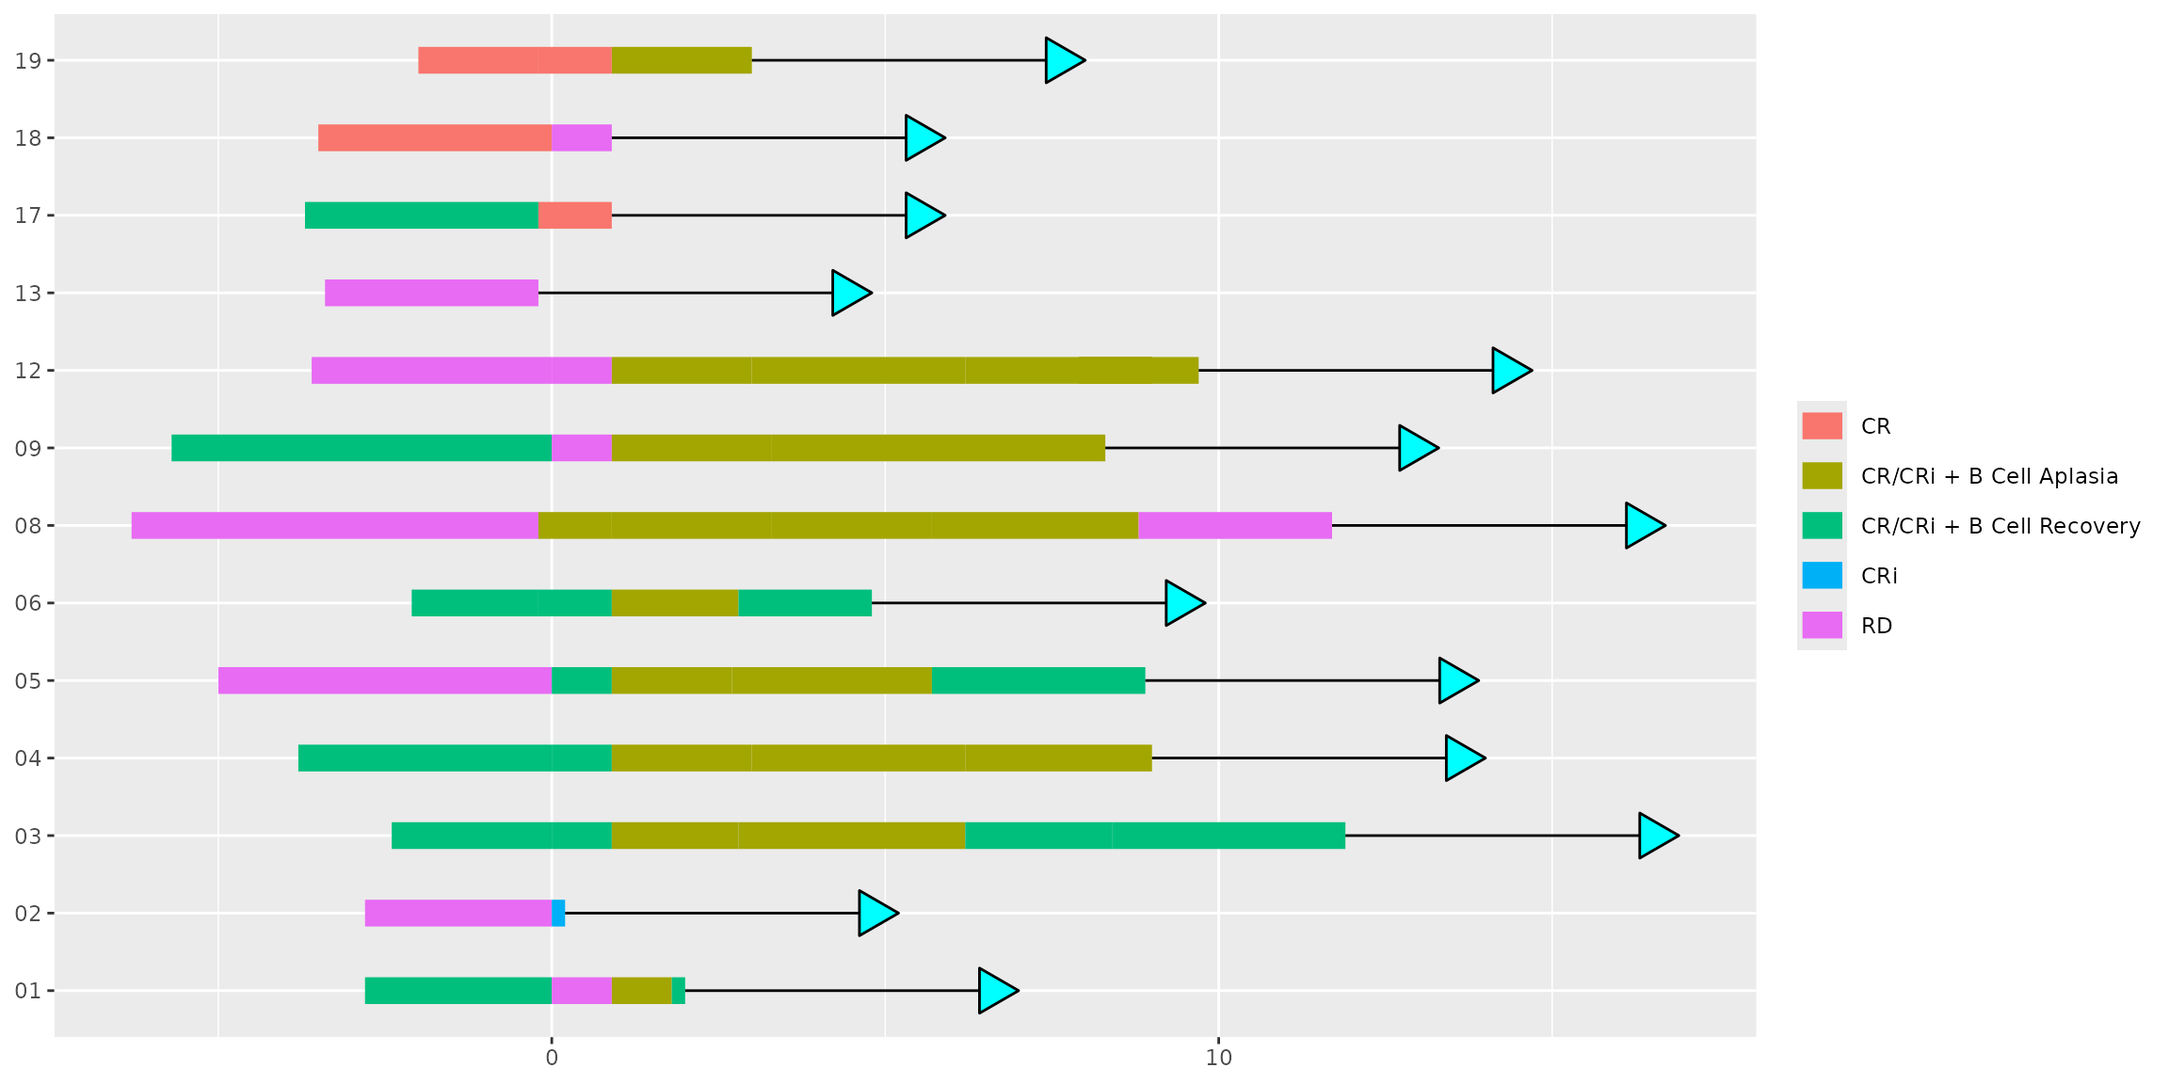
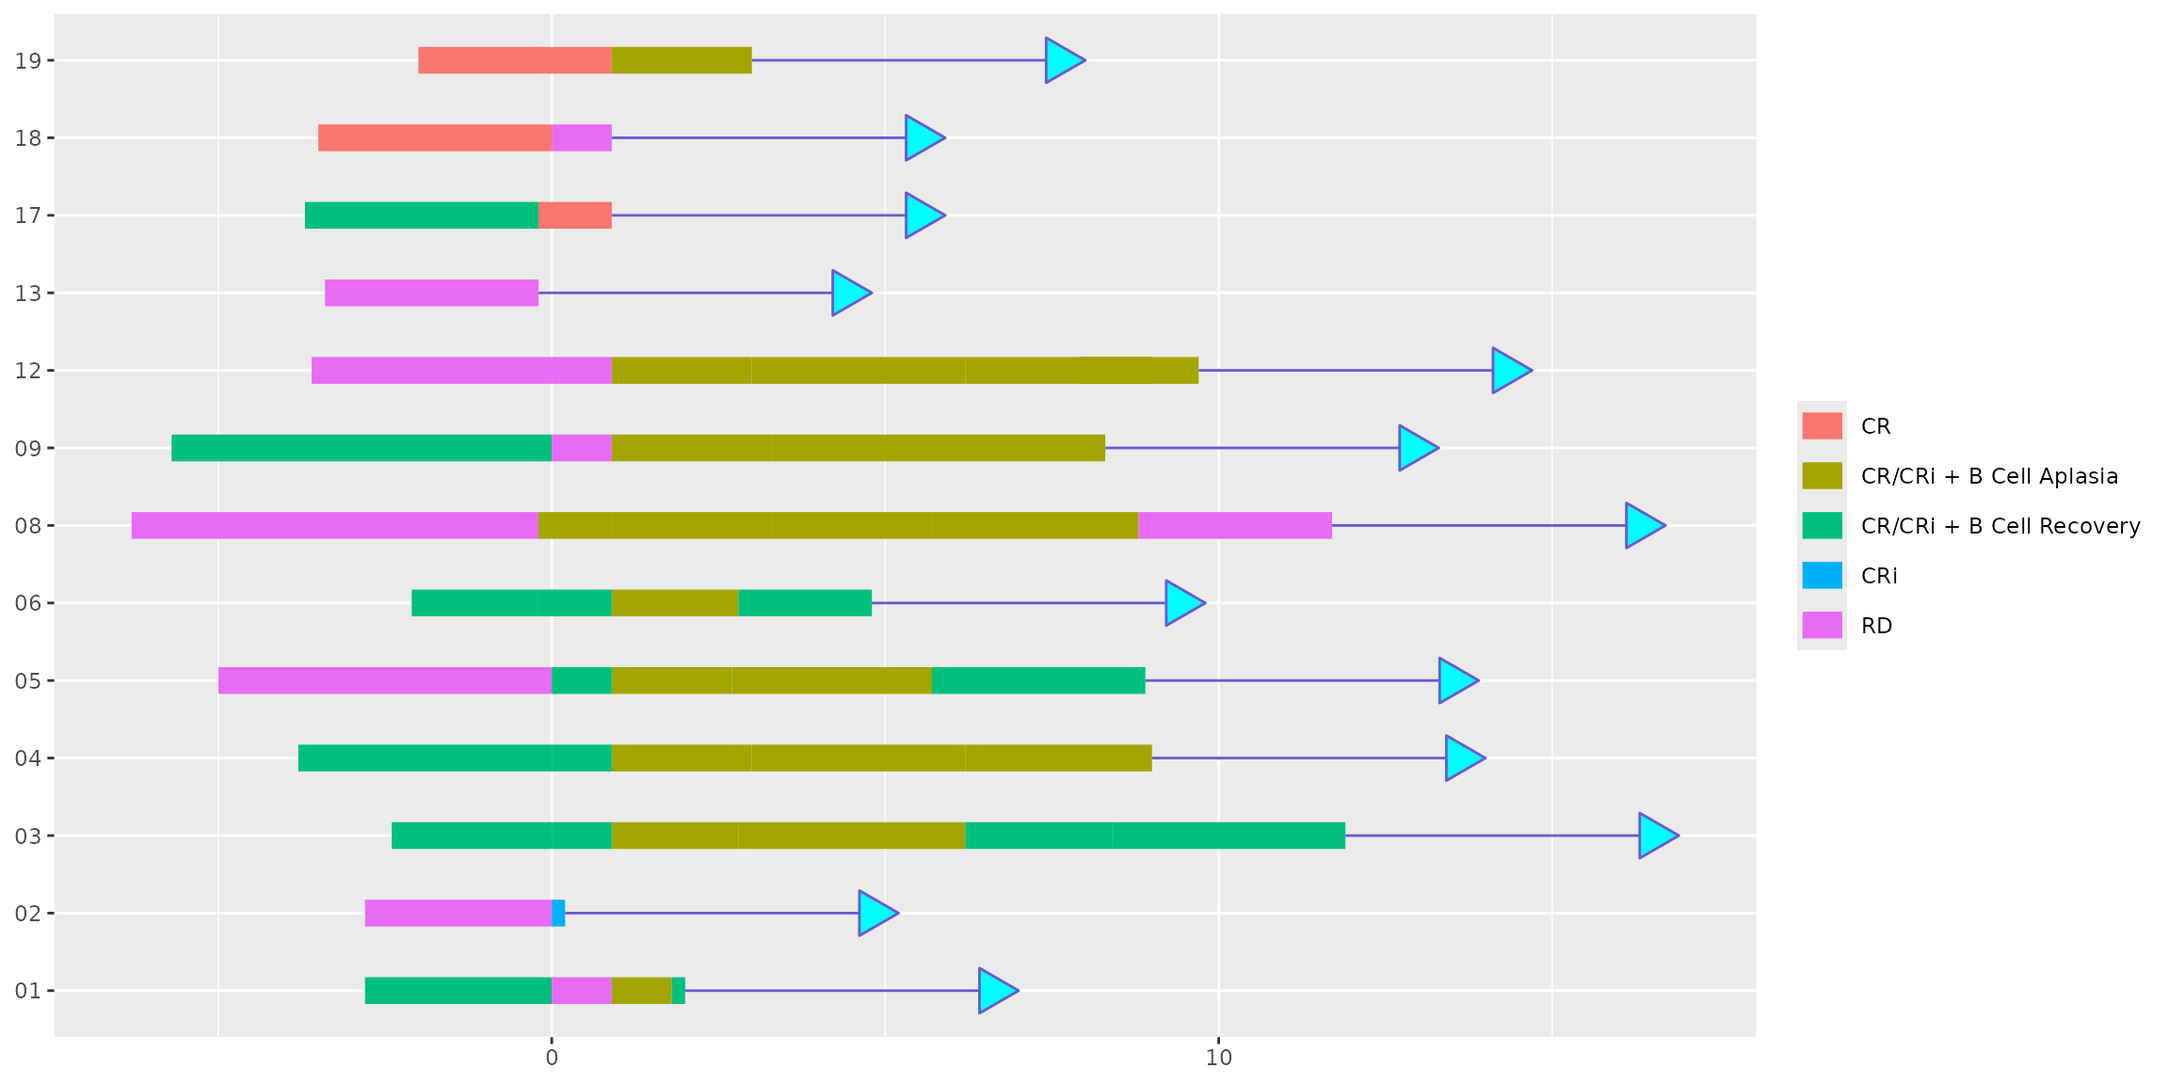
Deploying to gh-pages from @ CHOP-CGTInformatics/ggswim@497c8d150c01a896e78ef6a9d14fa356dc4f28ee 🚀

diff --git a/reference/geom_swim_lane.html b/reference/geom_swim_lane.html
@@ -1,7 +1,7 @@
 <!DOCTYPE html>
 <!-- Generated by pkgdown: do not edit by hand --><html lang="en"><head><meta http-equiv="Content-Type" content="text/html; charset=UTF-8"><meta charset="utf-8"><meta http-equiv="X-UA-Compatible" content="IE=edge"><meta name="viewport" content="width=device-width, initial-scale=1, shrink-to-fit=no"><meta name="description" content="Lanes in swimmer plots represent individual subjects or entities being tracked
 over time. Each lane is a horizontal track that displays the duration and
-sequence of events or activities for the corresponding subject."><title>Add lanes to swimmer plots — GeomSwimArrow • ggswim</title><!-- favicons --><link rel="icon" type="image/png" sizes="16x16" href="../favicon-16x16.png"><link rel="icon" type="image/png" sizes="32x32" href="../favicon-32x32.png"><link rel="apple-touch-icon" type="image/png" sizes="180x180" href="../apple-touch-icon.png"><link rel="apple-touch-icon" type="image/png" sizes="120x120" href="../apple-touch-icon-120x120.png"><link rel="apple-touch-icon" type="image/png" sizes="76x76" href="../apple-touch-icon-76x76.png"><link rel="apple-touch-icon" type="image/png" sizes="60x60" href="../apple-touch-icon-60x60.png"><script src="../deps/jquery-3.6.0/jquery-3.6.0.min.js"></script><meta name="viewport" content="width=device-width, initial-scale=1, shrink-to-fit=no"><link href="../deps/bootstrap-5.3.1/bootstrap.min.css" rel="stylesheet"><script src="../deps/bootstrap-5.3.1/bootstrap.bundle.min.js"></script><link href="../deps/Fira_Code-0.4.9/font.css" rel="stylesheet"><!-- Font Awesome icons --><link rel="stylesheet" href="https://cdnjs.cloudflare.com/ajax/libs/font-awesome/5.12.1/css/all.min.css" integrity="sha256-mmgLkCYLUQbXn0B1SRqzHar6dCnv9oZFPEC1g1cwlkk=" crossorigin="anonymous"><link rel="stylesheet" href="https://cdnjs.cloudflare.com/ajax/libs/font-awesome/5.12.1/css/v4-shims.min.css" integrity="sha256-wZjR52fzng1pJHwx4aV2AO3yyTOXrcDW7jBpJtTwVxw=" crossorigin="anonymous"><!-- bootstrap-toc --><script src="https://cdn.jsdelivr.net/gh/afeld/bootstrap-toc@v1.0.1/dist/bootstrap-toc.min.js" integrity="sha256-4veVQbu7//Lk5TSmc7YV48MxtMy98e26cf5MrgZYnwo=" crossorigin="anonymous"></script><!-- headroom.js --><script src="https://cdnjs.cloudflare.com/ajax/libs/headroom/0.11.0/headroom.min.js" integrity="sha256-AsUX4SJE1+yuDu5+mAVzJbuYNPHj/WroHuZ8Ir/CkE0=" crossorigin="anonymous"></script><script src="https://cdnjs.cloudflare.com/ajax/libs/headroom/0.11.0/jQuery.headroom.min.js" integrity="sha256-ZX/yNShbjqsohH1k95liqY9Gd8uOiE1S4vZc+9KQ1K4=" crossorigin="anonymous"></script><!-- clipboard.js --><script src="https://cdnjs.cloudflare.com/ajax/libs/clipboard.js/2.0.11/clipboard.min.js" integrity="sha512-7O5pXpc0oCRrxk8RUfDYFgn0nO1t+jLuIOQdOMRp4APB7uZ4vSjspzp5y6YDtDs4VzUSTbWzBFZ/LKJhnyFOKw==" crossorigin="anonymous" referrerpolicy="no-referrer"></script><!-- search --><script src="https://cdnjs.cloudflare.com/ajax/libs/fuse.js/6.4.6/fuse.js" integrity="sha512-zv6Ywkjyktsohkbp9bb45V6tEMoWhzFzXis+LrMehmJZZSys19Yxf1dopHx7WzIKxr5tK2dVcYmaCk2uqdjF4A==" crossorigin="anonymous"></script><script src="https://cdnjs.cloudflare.com/ajax/libs/autocomplete.js/0.38.0/autocomplete.jquery.min.js" integrity="sha512-GU9ayf+66Xx2TmpxqJpliWbT5PiGYxpaG8rfnBEk1LL8l1KGkRShhngwdXK1UgqhAzWpZHSiYPc09/NwDQIGyg==" crossorigin="anonymous"></script><script src="https://cdnjs.cloudflare.com/ajax/libs/mark.js/8.11.1/mark.min.js" integrity="sha512-5CYOlHXGh6QpOFA/TeTylKLWfB3ftPsde7AnmhuitiTX4K5SqCLBeKro6sPS8ilsz1Q4NRx3v8Ko2IBiszzdww==" crossorigin="anonymous"></script><!-- pkgdown --><script src="../pkgdown.js"></script><meta property="og:title" content="Add lanes to swimmer plots — GeomSwimArrow"><meta property="og:description" content="Lanes in swimmer plots represent individual subjects or entities being tracked
+sequence of events or activities for the corresponding subject."><title>Add lanes to swimmer plots — geom_swim_lane • ggswim</title><!-- favicons --><link rel="icon" type="image/png" sizes="16x16" href="../favicon-16x16.png"><link rel="icon" type="image/png" sizes="32x32" href="../favicon-32x32.png"><link rel="apple-touch-icon" type="image/png" sizes="180x180" href="../apple-touch-icon.png"><link rel="apple-touch-icon" type="image/png" sizes="120x120" href="../apple-touch-icon-120x120.png"><link rel="apple-touch-icon" type="image/png" sizes="76x76" href="../apple-touch-icon-76x76.png"><link rel="apple-touch-icon" type="image/png" sizes="60x60" href="../apple-touch-icon-60x60.png"><script src="../deps/jquery-3.6.0/jquery-3.6.0.min.js"></script><meta name="viewport" content="width=device-width, initial-scale=1, shrink-to-fit=no"><link href="../deps/bootstrap-5.3.1/bootstrap.min.css" rel="stylesheet"><script src="../deps/bootstrap-5.3.1/bootstrap.bundle.min.js"></script><link href="../deps/Fira_Code-0.4.9/font.css" rel="stylesheet"><!-- Font Awesome icons --><link rel="stylesheet" href="https://cdnjs.cloudflare.com/ajax/libs/font-awesome/5.12.1/css/all.min.css" integrity="sha256-mmgLkCYLUQbXn0B1SRqzHar6dCnv9oZFPEC1g1cwlkk=" crossorigin="anonymous"><link rel="stylesheet" href="https://cdnjs.cloudflare.com/ajax/libs/font-awesome/5.12.1/css/v4-shims.min.css" integrity="sha256-wZjR52fzng1pJHwx4aV2AO3yyTOXrcDW7jBpJtTwVxw=" crossorigin="anonymous"><!-- bootstrap-toc --><script src="https://cdn.jsdelivr.net/gh/afeld/bootstrap-toc@v1.0.1/dist/bootstrap-toc.min.js" integrity="sha256-4veVQbu7//Lk5TSmc7YV48MxtMy98e26cf5MrgZYnwo=" crossorigin="anonymous"></script><!-- headroom.js --><script src="https://cdnjs.cloudflare.com/ajax/libs/headroom/0.11.0/headroom.min.js" integrity="sha256-AsUX4SJE1+yuDu5+mAVzJbuYNPHj/WroHuZ8Ir/CkE0=" crossorigin="anonymous"></script><script src="https://cdnjs.cloudflare.com/ajax/libs/headroom/0.11.0/jQuery.headroom.min.js" integrity="sha256-ZX/yNShbjqsohH1k95liqY9Gd8uOiE1S4vZc+9KQ1K4=" crossorigin="anonymous"></script><!-- clipboard.js --><script src="https://cdnjs.cloudflare.com/ajax/libs/clipboard.js/2.0.11/clipboard.min.js" integrity="sha512-7O5pXpc0oCRrxk8RUfDYFgn0nO1t+jLuIOQdOMRp4APB7uZ4vSjspzp5y6YDtDs4VzUSTbWzBFZ/LKJhnyFOKw==" crossorigin="anonymous" referrerpolicy="no-referrer"></script><!-- search --><script src="https://cdnjs.cloudflare.com/ajax/libs/fuse.js/6.4.6/fuse.js" integrity="sha512-zv6Ywkjyktsohkbp9bb45V6tEMoWhzFzXis+LrMehmJZZSys19Yxf1dopHx7WzIKxr5tK2dVcYmaCk2uqdjF4A==" crossorigin="anonymous"></script><script src="https://cdnjs.cloudflare.com/ajax/libs/autocomplete.js/0.38.0/autocomplete.jquery.min.js" integrity="sha512-GU9ayf+66Xx2TmpxqJpliWbT5PiGYxpaG8rfnBEk1LL8l1KGkRShhngwdXK1UgqhAzWpZHSiYPc09/NwDQIGyg==" crossorigin="anonymous"></script><script src="https://cdnjs.cloudflare.com/ajax/libs/mark.js/8.11.1/mark.min.js" integrity="sha512-5CYOlHXGh6QpOFA/TeTylKLWfB3ftPsde7AnmhuitiTX4K5SqCLBeKro6sPS8ilsz1Q4NRx3v8Ko2IBiszzdww==" crossorigin="anonymous"></script><!-- pkgdown --><script src="../pkgdown.js"></script><meta property="og:title" content="Add lanes to swimmer plots — geom_swim_lane"><meta property="og:description" content="Lanes in swimmer plots represent individual subjects or entities being tracked
 over time. Each lane is a horizontal track that displays the duration and
 sequence of events or activities for the corresponding subject."><meta property="og:image" content="https://chop-cgtinformatics.github.io/ggswim/logo.png"><!-- mathjax --><script src="https://cdnjs.cloudflare.com/ajax/libs/mathjax/2.7.5/MathJax.js" integrity="sha256-nvJJv9wWKEm88qvoQl9ekL2J+k/RWIsaSScxxlsrv8k=" crossorigin="anonymous"></script><script src="https://cdnjs.cloudflare.com/ajax/libs/mathjax/2.7.5/config/TeX-AMS-MML_HTMLorMML.js" integrity="sha256-84DKXVJXs0/F8OTMzX4UR909+jtl4G7SPypPavF+GfA=" crossorigin="anonymous"></script><!--[if lt IE 9]>
 <script src="https://oss.maxcdn.com/html5shiv/3.7.3/html5shiv.min.js"></script>
@@ -58,7 +58,7 @@ sequence of events or activities for the corresponding subject."><meta property=
 <div class="row">
   <main id="main" class="col-md-9"><div class="page-header">
       <img src="../logo.png" class="logo" alt=""><h1>Add lanes to swimmer plots</h1>
-      <small class="dont-index">Source: <a href="https://github.com/CHOP-CGTInformatics/ggswim/blob/HEAD/R/geom_swim_arrow.R" class="external-link"><code>R/geom_swim_arrow.R</code></a>, <a href="https://github.com/CHOP-CGTInformatics/ggswim/blob/HEAD/R/geom_swim_lane.R" class="external-link"><code>R/geom_swim_lane.R</code></a></small>
+      <small class="dont-index">Source: <a href="https://github.com/CHOP-CGTInformatics/ggswim/blob/HEAD/R/geom_swim_lane.R" class="external-link"><code>R/geom_swim_lane.R</code></a></small>
       <div class="d-none name"><code>geom_swim_lane.Rd</code></div>
     </div>
 
@@ -76,6 +76,8 @@ sequence of events or activities for the corresponding subject.</p>
 <span>  stat <span class="op">=</span> <span class="st">"identity"</span>,</span>
 <span>  position <span class="op">=</span> <span class="st">"identity"</span>,</span>
 <span>  <span class="va">...</span>,</span>
+<span>  arrow <span class="op">=</span> <span class="cn">NULL</span>,</span>
+<span>  arrow.fill <span class="op">=</span> <span class="cn">NULL</span>,</span>
 <span>  lineend <span class="op">=</span> <span class="st">"butt"</span>,</span>
 <span>  linejoin <span class="op">=</span> <span class="st">"round"</span>,</span>
 <span>  na.rm <span class="op">=</span> <span class="cn">FALSE</span>,</span>
@@ -143,6 +145,15 @@ lists which parameters it can accept.</p></li>
 </ul></dd>
 
 
+<dt>arrow</dt>
+<dd><p>specification for arrow heads, as created by <code><a href="https://rdrr.io/r/grid/arrow.html" class="external-link">grid::arrow()</a></code>.</p></dd>
+
+
+<dt>arrow.fill</dt>
+<dd><p>fill colour to use for the arrow head (if closed). <code>NULL</code>
+means use <code>colour</code> aesthetic.</p></dd>
+
+
 <dt>lineend</dt>
 <dd><p>Line end style (round, butt, square).</p></dd>
 
@@ -177,7 +188,7 @@ the default plot specification, e.g. <code><a href="https://ggplot2.tidyverse.or
 
 <p><code>geom_swim_lane()</code> understands the following aesthetics (required aesthetics are in bold):</p><ul><li><p><strong><code>x</code></strong></p></li>
 <li><p><strong><code>y</code></strong></p></li>
-<li><p><strong>xend <em>or</em> yend</strong></p></li>
+<li><p><strong>xend</strong></p></li>
 <li><p><code>alpha</code></p></li>
 <li><p><code>colour</code></p></li>
 <li><p><code>group</code></p></li>

diff --git a/reference/geom_swim_arrow.html b/reference/geom_swim_arrow.html
@@ -72,7 +72,7 @@ or status extends beyond the plotted period.</p>
     <h2 id="ref-usage">Usage<a class="anchor" aria-label="anchor" href="#ref-usage"></a></h2>
     <div class="sourceCode"><pre class="sourceCode r"><code><span><span class="fu">geom_swim_arrow</span><span class="op">(</span></span>
 <span>  mapping <span class="op">=</span> <span class="cn">NULL</span>,</span>
-<span>  data <span class="op">=</span> <span class="cn">NULL</span>,</span>
+<span>  <span class="va">data</span>,</span>
 <span>  stat <span class="op">=</span> <span class="st">"identity"</span>,</span>
 <span>  position <span class="op">=</span> <span class="st">"identity"</span>,</span>
 <span>  <span class="va">...</span>,</span>
@@ -84,8 +84,7 @@ or status extends beyond the plotted period.</p>
 <span>  lineend <span class="op">=</span> <span class="st">"butt"</span>,</span>
 <span>  linejoin <span class="op">=</span> <span class="st">"round"</span>,</span>
 <span>  na.rm <span class="op">=</span> <span class="cn">FALSE</span>,</span>
-<span>  show.legend <span class="op">=</span> <span class="cn">FALSE</span>,</span>
-<span>  inherit.aes <span class="op">=</span> <span class="cn">TRUE</span></span>
+<span>  show.legend <span class="op">=</span> <span class="cn">FALSE</span></span>
 <span><span class="op">)</span></span></code></pre></div>
     </div>
 
@@ -99,7 +98,7 @@ mapping.</p></dd>
 
 
 <dt>data</dt>
-<dd><p>A dataframe prepared for use with <code>geom_swim_arrow()</code></p></dd>
+<dd><p>A dataframe prepared for use with <code>geom_swim_arrow()</code>. Required.</p></dd>
 
 
 <dt>stat</dt>
@@ -191,20 +190,17 @@ a warning. If <code>TRUE</code>, missing values are silently removed.</p></dd>
 It can also be a named logical vector to finely select the aesthetics to
 display.</p></dd>
 
-
-<dt>inherit.aes</dt>
-<dd><p>If <code>FALSE</code>, overrides the default aesthetics,
-rather than combining with them. This is most useful for helper functions
-that define both data and aesthetics and shouldn't inherit behaviour from
-the default plot specification, e.g. <code><a href="https://ggplot2.tidyverse.org/reference/borders.html" class="external-link">borders()</a></code>.</p></dd>
-
 </dl></div>
+    <div class="section level2">
+    <h2 id="details">Details<a class="anchor" aria-label="anchor" href="#details"></a></h2>
+    <p>Please note that <code>geom_swim_arrow()</code> requires a <code>data</code> argument and does not
+inherit data like other functions.</p>
+    </div>
     <div class="section level2">
     <h2 id="aesthetics">Aesthetics<a class="anchor" aria-label="anchor" href="#aesthetics"></a></h2>
     
 
-<p><code>geom_swim_arrow()</code> understands the following aesthetics (required aesthetics are in bold):</p><ul><li><p><strong><code>x</code></strong></p></li>
-<li><p><strong><code>y</code></strong></p></li>
+<p><code>geom_swim_arrow()</code> understands the following aesthetics (required aesthetics are in bold):</p><ul><li><p><strong><code>y</code></strong></p></li>
 <li><p><strong>xend</strong></p></li>
 <li><p><code>alpha</code></p></li>
 <li><p><code>colour</code></p></li>
@@ -237,9 +233,21 @@ functionality.</p>
 <span class="r-in"><span>  arrow_colour <span class="op">=</span> <span class="st">"slateblue"</span>,</span></span>
 <span class="r-in"><span>  arrow_fill <span class="op">=</span> <span class="st">"cyan"</span></span></span>
 <span class="r-in"><span><span class="op">)</span></span></span>
-<span class="r-out co"><span class="r-pr">#&gt;</span> mapping y = ~pt_id, xend = ~end_time </span>
-<span class="r-out co"><span class="r-pr">#&gt;</span> geom_swim_arrow: na.rm = FALSE, lineend = butt, linejoin = round, arrow = NULL, arrow.fill = cyan, linewidth = 0.1 </span>
-<span class="r-out co"><span class="r-pr">#&gt;</span> stat_identity: na.rm = FALSE </span>
+<span class="r-out co"><span class="r-pr">#&gt;</span> mapping: y = ~pt_id, xend = ~end_time </span>
+<span class="r-out co"><span class="r-pr">#&gt;</span> geom_swim_arrow: arrow = function (angle = 30, length = unit(0.25, "inches"), ends = "last", type = "open") </span>
+<span class="r-out co"><span class="r-pr">#&gt;</span> {</span>
+<span class="r-out co"><span class="r-pr">#&gt;</span>     angle &lt;- as.numeric(angle)</span>
+<span class="r-out co"><span class="r-pr">#&gt;</span>     if (!is.unit(length)) </span>
+<span class="r-out co"><span class="r-pr">#&gt;</span>         stop("'length' must be a 'unit' object")</span>
+<span class="r-out co"><span class="r-pr">#&gt;</span>     ends &lt;- as.integer(match(ends, c("first", "last", "both")))</span>
+<span class="r-out co"><span class="r-pr">#&gt;</span>     type &lt;- as.integer(match(type, c("open", "closed")))</span>
+<span class="r-out co"><span class="r-pr">#&gt;</span>     if (anyNA(ends) || anyNA(type) || length(ends) == 0 || length(type) == 0) </span>
+<span class="r-out co"><span class="r-pr">#&gt;</span>         stop("invalid 'ends' or 'type' argument")</span>
+<span class="r-out co"><span class="r-pr">#&gt;</span>     a &lt;- list(angle = angle, length = length, ends = ends, type = type)</span>
+<span class="r-out co"><span class="r-pr">#&gt;</span>     class(a) &lt;- "arrow"</span>
+<span class="r-out co"><span class="r-pr">#&gt;</span>     a</span>
+<span class="r-out co"><span class="r-pr">#&gt;</span> }, arrow.fill = cyan, lineend = butt, linejoin = round, na.rm = FALSE</span>
+<span class="r-out co"><span class="r-pr">#&gt;</span> stat_identity: na.rm = FALSE</span>
 <span class="r-out co"><span class="r-pr">#&gt;</span> position_identity </span>
 <span class="r-in"><span></span></span>
 </code></pre></div>

diff --git a/reference/print.ggswim_layer.html b/reference/print.ggswim_layer.html
@@ -62,11 +62,6 @@
     <p>Print ggswim layer object</p>
     </div>
 
-    <div class="section level2">
-    <h2 id="ref-usage">Usage<a class="anchor" aria-label="anchor" href="#ref-usage"></a></h2>
-    <div class="sourceCode"><pre class="sourceCode r"><code><span><span class="co"># S3 method for ggswim_layer</span></span>
-<span><span class="fu"><a href="https://rdrr.io/r/base/print.html" class="external-link">print</a></span><span class="op">(</span><span class="va">x</span>, <span class="va">...</span>, flat <span class="op">=</span> <span class="cn">TRUE</span><span class="op">)</span></span></code></pre></div>
-    </div>
 
     <div class="section level2">
     <h2 id="arguments">Arguments<a class="anchor" aria-label="anchor" href="#arguments"></a></h2>
@@ -98,9 +93,9 @@
 <span class="r-in"><span>    <span class="op">)</span></span></span>
 <span class="r-in"><span>  <span class="op">)</span></span></span>
 <span class="r-in"><span><span class="op">)</span></span></span>
-<span class="r-out co"><span class="r-pr">#&gt;</span> mapping x = ~start_time, y = ~pt_id, xend = ~end_time, colour = ~disease_assessment </span>
-<span class="r-out co"><span class="r-pr">#&gt;</span> geom_swim_lane: na.rm = FALSE, lineend = butt, linejoin = round </span>
-<span class="r-out co"><span class="r-pr">#&gt;</span> stat_identity: na.rm = FALSE </span>
+<span class="r-out co"><span class="r-pr">#&gt;</span> mapping: x = ~start_time, y = ~pt_id, xend = ~end_time, colour = ~disease_assessment </span>
+<span class="r-out co"><span class="r-pr">#&gt;</span> geom_swim_lane: arrow = NULL, arrow.fill = NULL, lineend = butt, linejoin = round, na.rm = FALSE</span>
+<span class="r-out co"><span class="r-pr">#&gt;</span> stat_identity: na.rm = FALSE</span>
 <span class="r-out co"><span class="r-pr">#&gt;</span> position_identity </span>
 </code></pre></div>
     </div>

diff --git a/articles/gallery.html b/articles/gallery.html
@@ -151,7 +151,7 @@ splits:</p>
 <span>  <span class="fu"><a href="../reference/geom_swim_label.html">geom_swim_label</a></span><span class="op">(</span></span>
 <span>    data <span class="op">=</span> <span class="va">single_row_data</span>,</span>
 <span>    mapping <span class="op">=</span> <span class="fu"><a href="https://ggplot2.tidyverse.org/reference/aes.html" class="external-link">aes</a></span><span class="op">(</span>x <span class="op">=</span> <span class="va">m2_time</span>, y <span class="op">=</span> <span class="va">record</span>, label_vals <span class="op">=</span> <span class="va">m2</span>, label_names <span class="op">=</span> <span class="va">m2_name</span><span class="op">)</span>,</span>
-<span>    label.size <span class="op">=</span> <span class="cn">NA</span>, size <span class="op">=</span> <span class="fl">5</span></span>
+<span>    label.size <span class="op">=</span> <span class="cn">NA</span>, size <span class="op">=</span> <span class="fl">5</span>, fill <span class="op">=</span> <span class="cn">NA</span></span>
 <span>  <span class="op">)</span> <span class="op">+</span></span>
 <span>  <span class="fu"><a href="https://ggplot2.tidyverse.org/reference/scale_colour_discrete.html" class="external-link">scale_color_discrete</a></span><span class="op">(</span>name <span class="op">=</span> <span class="st">"Marker Labels"</span><span class="op">)</span> <span class="op">+</span></span>
 <span>  <span class="fu"><a href="https://ggplot2.tidyverse.org/reference/ggtheme.html" class="external-link">theme_minimal</a></span><span class="op">(</span><span class="op">)</span></span></code></pre></div>
